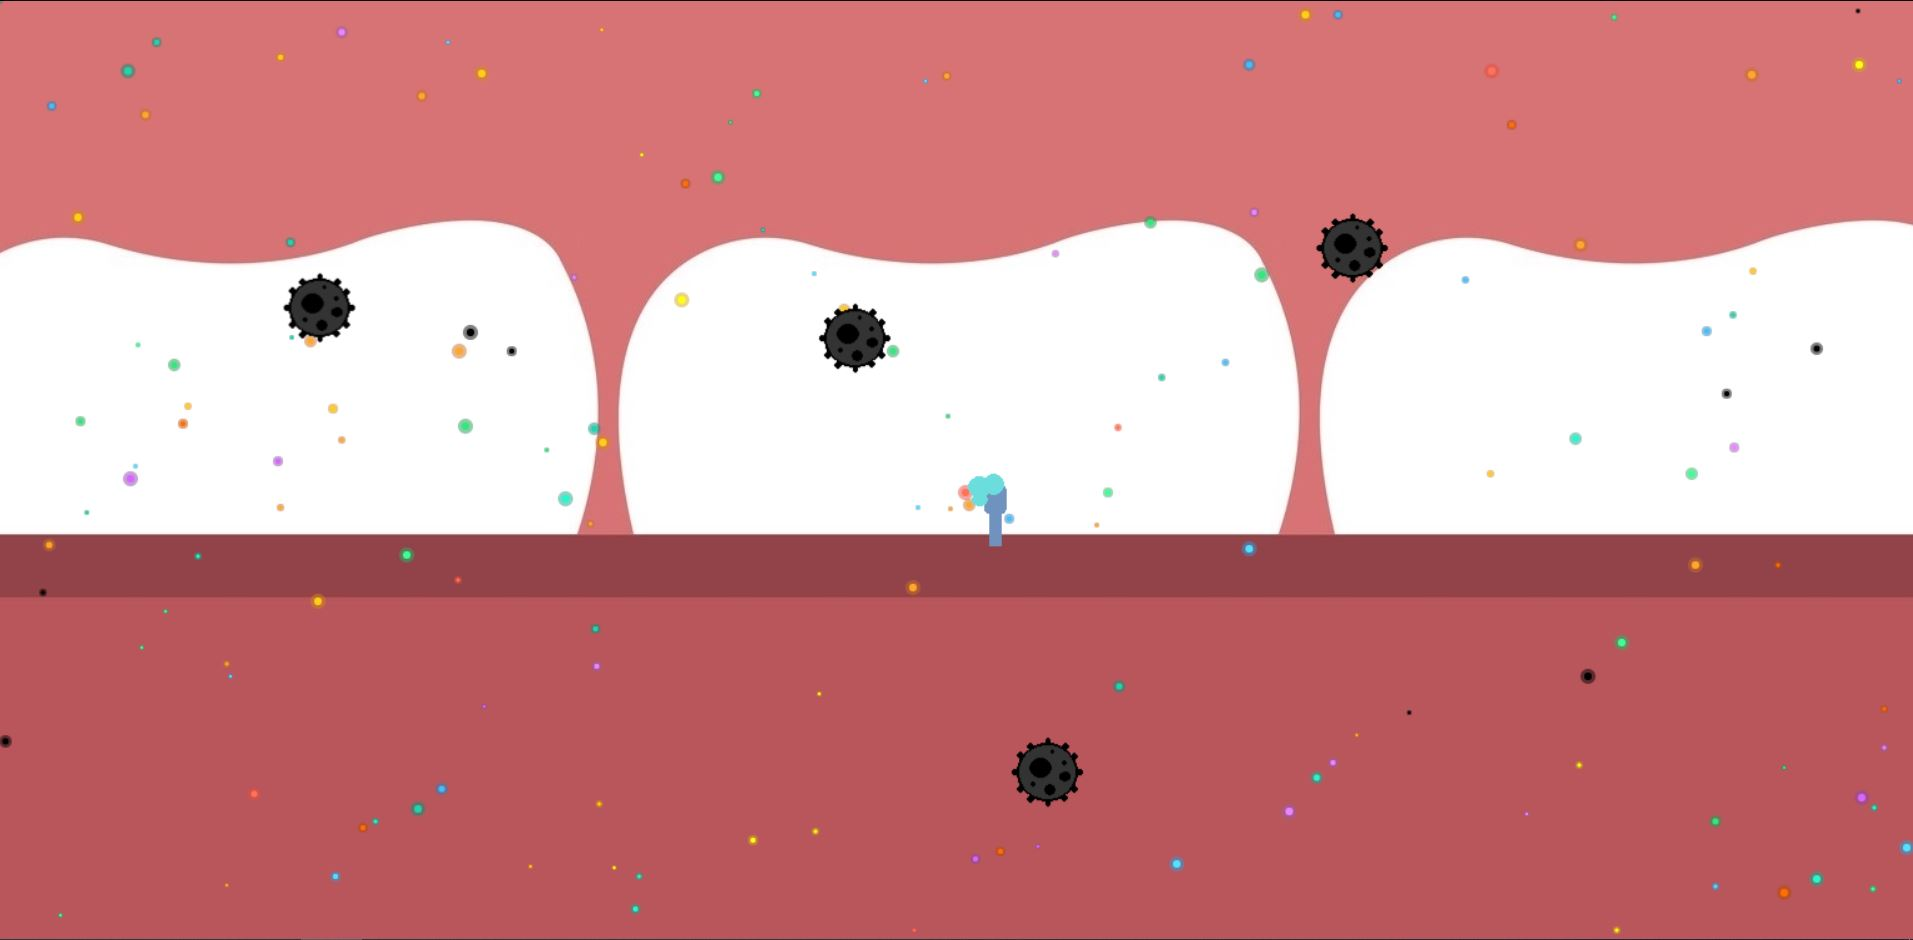
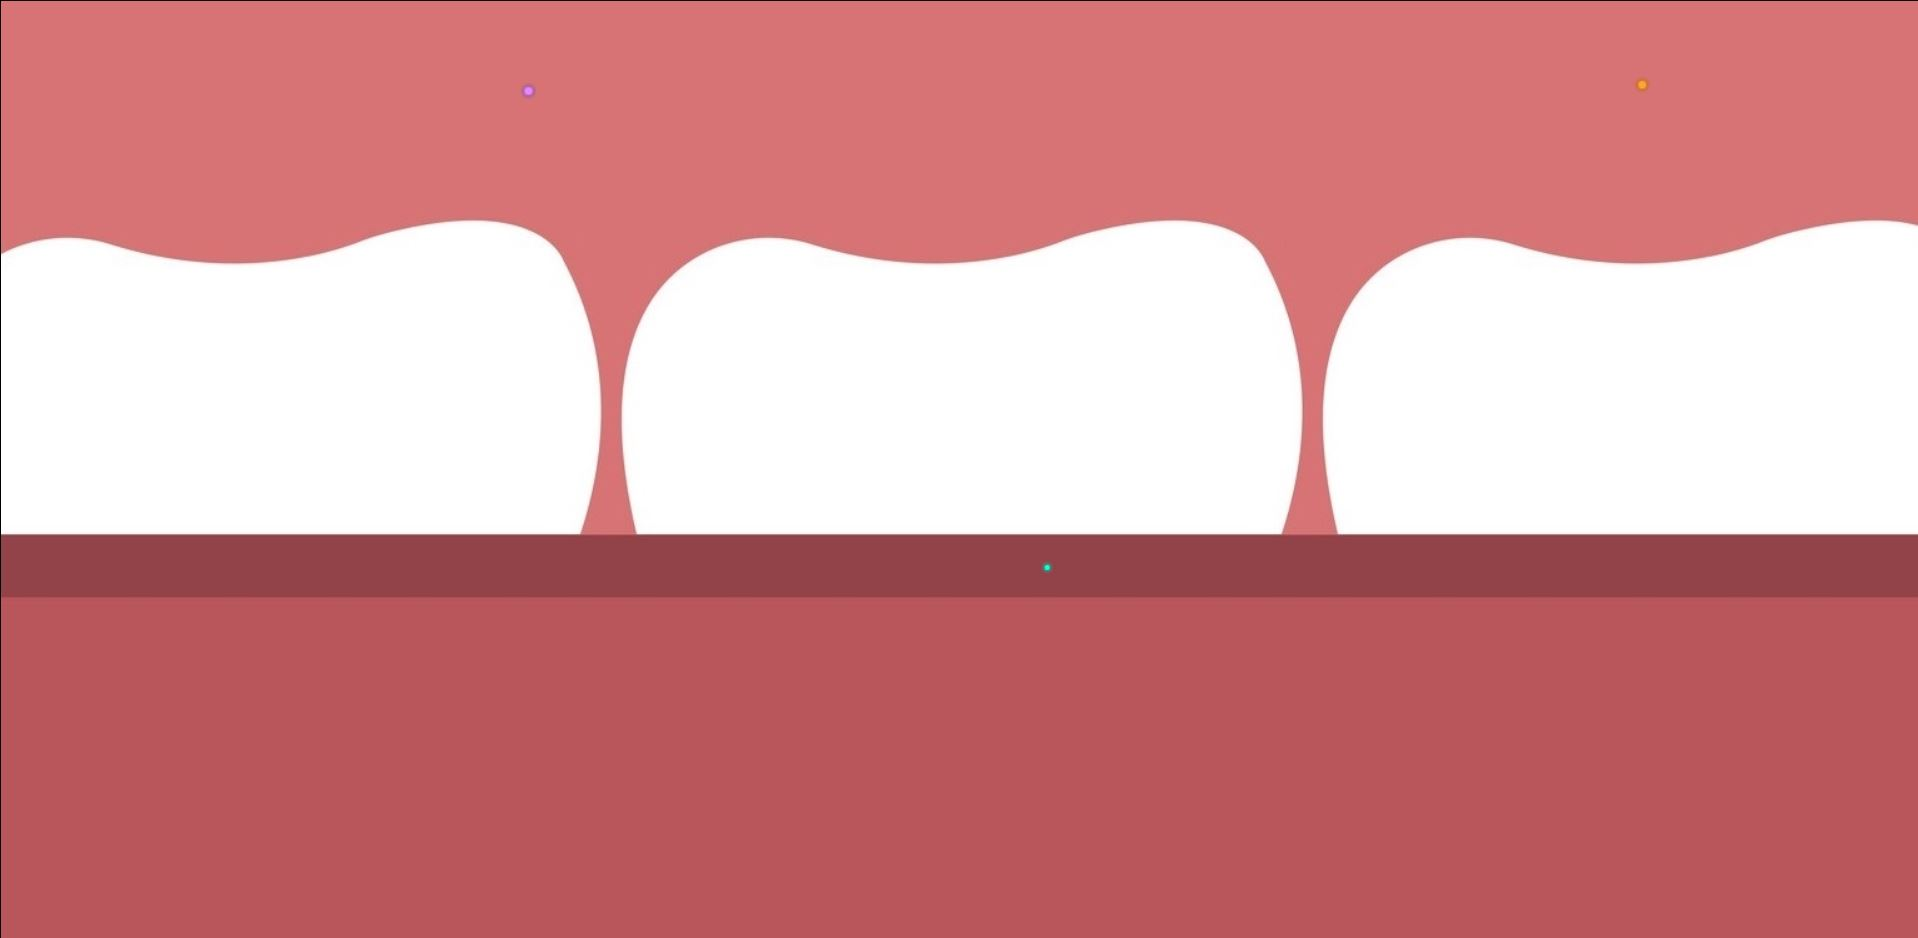
pontuação

diff --git a/CODIGO-FONTE/as_aventuras_de_bilu_/gamehomer.html b/CODIGO-FONTE/as_aventuras_de_bilu_/gamehomer.html
@@ -23,27 +23,11 @@
       position: relative;
       left: 0;
       top: 0;
-      width: 200px;
+      padding: 20px;
       background: rgba(0, 0, 0, 0.8);
       cursor: pointer;
-    }
-
-    .hover {
+      text-align: center;
       text-decoration: none;
-    }
-
-    .hover:hover div {
-      transition: all 0.5s;
-      background: rgba(255, 255, 255, 0.6);
-      color: black !important;
-      text-decoration: none !important;
-    }
-
-    input {
-      background: rgba(0, 0, 0, 0.8);
-      padding: 10px;
-      width: 175px;
-      color: white;
     }
 
     input::placeholder {
@@ -63,19 +47,10 @@
 <body style="overflow: hidden; margin: 0px; padding: 0px;">
   <div id="container">
     <img src="./assets/background.JPG" />
-    <div class="slide one">
-      <input id="val" placeholder="Digite seu nome" onkeydown="key(this)">
-      <a href="index.html" class="hover">
-        <div
-          style="padding-top: 25%; text-align: center; color: white; border: solid 1px #888888; padding-bottom: 20%;">
-          Inciar novo jogo</div>
-      </a>
-      <a class="hover">
-      <div class="hover"
-        style="padding-top: 25%; text-align: center; color: white; border: solid 1px #888888; padding-bottom: 20%;">
-        Pontuações</div>
-      </a>
-    </div>
+    <a href="index2.html" class="slide one">
+      <div style="font-size: 100px; color: white;">Game over</div>
+      <span style="font-size: 30px; color: white; text-align: center;">Tentar novamente</span>
+    </a>
   </div>
   <script src="https://ajax.googleapis.com/ajax/libs/jquery/3.5.1/jquery.min.js"></script>
   <script src="https://cdnjs.cloudflare.com/ajax/libs/gsap/3.3.0/gsap.min.js"></script>

diff --git a/CODIGO-FONTE/as_aventuras_de_bilu_/js/Game.js b/CODIGO-FONTE/as_aventuras_de_bilu_/js/Game.js
@@ -4,18 +4,25 @@ class Game {
 		this.ctxFood = ctxFood;
 		this.ctxHex = ctxHex;
 
-		this.WORLD_SIZE = new Point(window.innerWidth*2, window.innerHeight*2);
+		this.WORLD_SIZE = new Point(window.innerWidth * 2, window.innerHeight * 2);
 		this.SCREEN_SIZE = new Point(window.innerWidth, window.innerHeight);
 		this.world = new Point(-1200, -600);
 		this.snakes = [];
 		this.foods = [];
 		this.bricks = [];
+		this.secconds = 10;
 	}
 
 	init() {
-		this.snakes[0] = new Snake(this.ctxSnake, "Bibhuti", 0);
+		this.snakes[0] = new Snake(this.ctxSnake, localStorage.getItem('name'), 0);
 		for (var i = 0; i < 10; i++) this.addSnake(ut.randomName(), 100);
 		this.generateFoods(20);
+		setInterval(() => {
+			this.secconds--;
+			if (this.secconds === 0) {
+				window.location.href="gamehomer.html"
+			}
+		}, 1000);
 	}
 
 	draw() {
@@ -25,6 +32,8 @@ class Game {
 
 		//draw food
 		for (var i = 0; i < this.foods.length; i++) this.foods[i].draw(this.snakes[0]);
+
+		this.drawScore();
 
 	}
 
@@ -54,6 +63,16 @@ class Game {
 		}
 
 
+	}
+
+	drawScore() {
+		var start = new Point(20, 20);
+		if (this.snakes && this.snakes.length > 0) {
+			this.ctxSnake.fillStyle = this.snakes[0].mainColor;
+			this.ctxSnake.font = "bold 20px Arial";
+			this.ctxSnake.fillText(this.snakes[0].name + " " + this.snakes[0].score + ' pontos' + ', tempo restante: ' + this.secconds + ' segundos',
+				start.x - 5, start.y + 0 * 15);
+		}
 	}
 
 	addSnake(name, id) {
